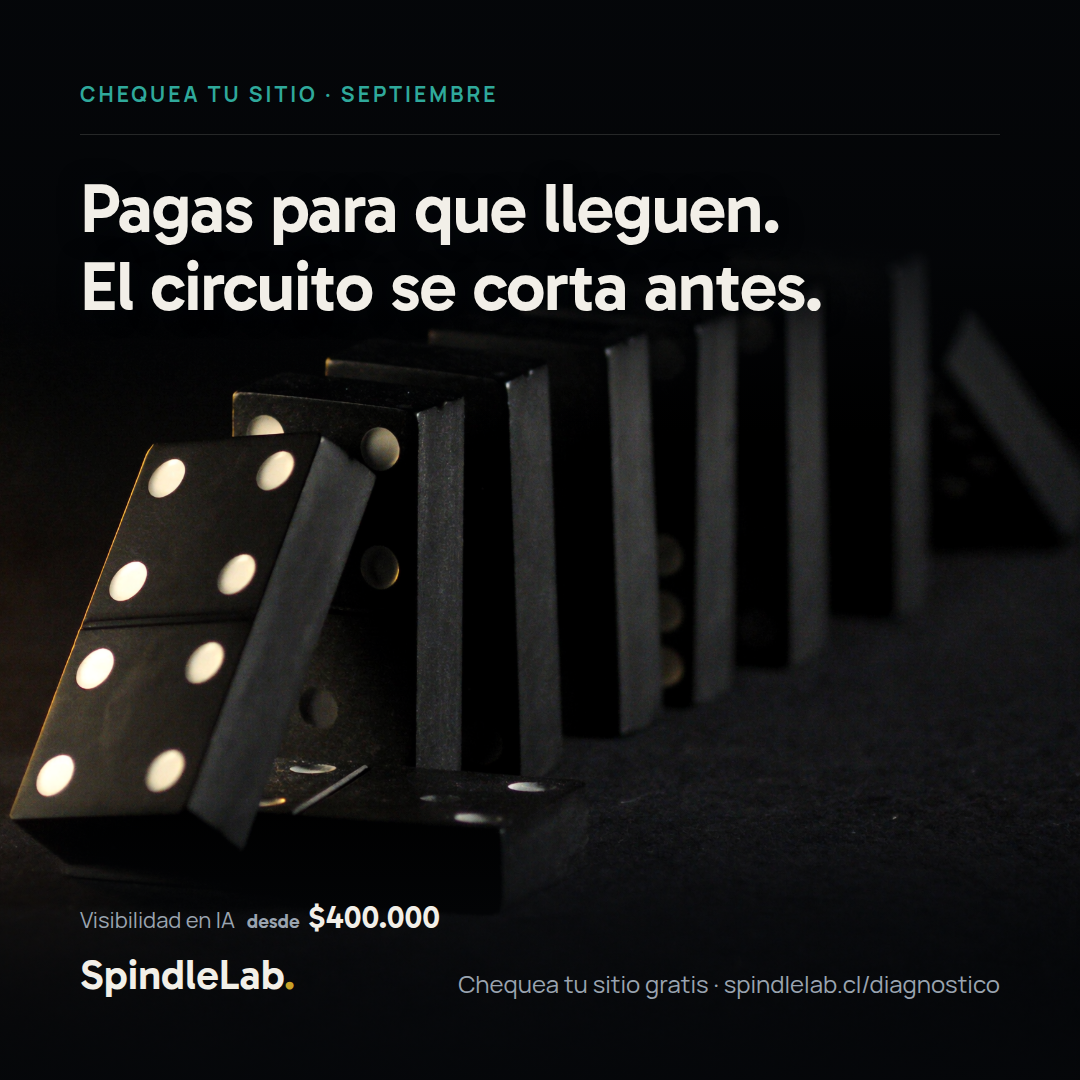
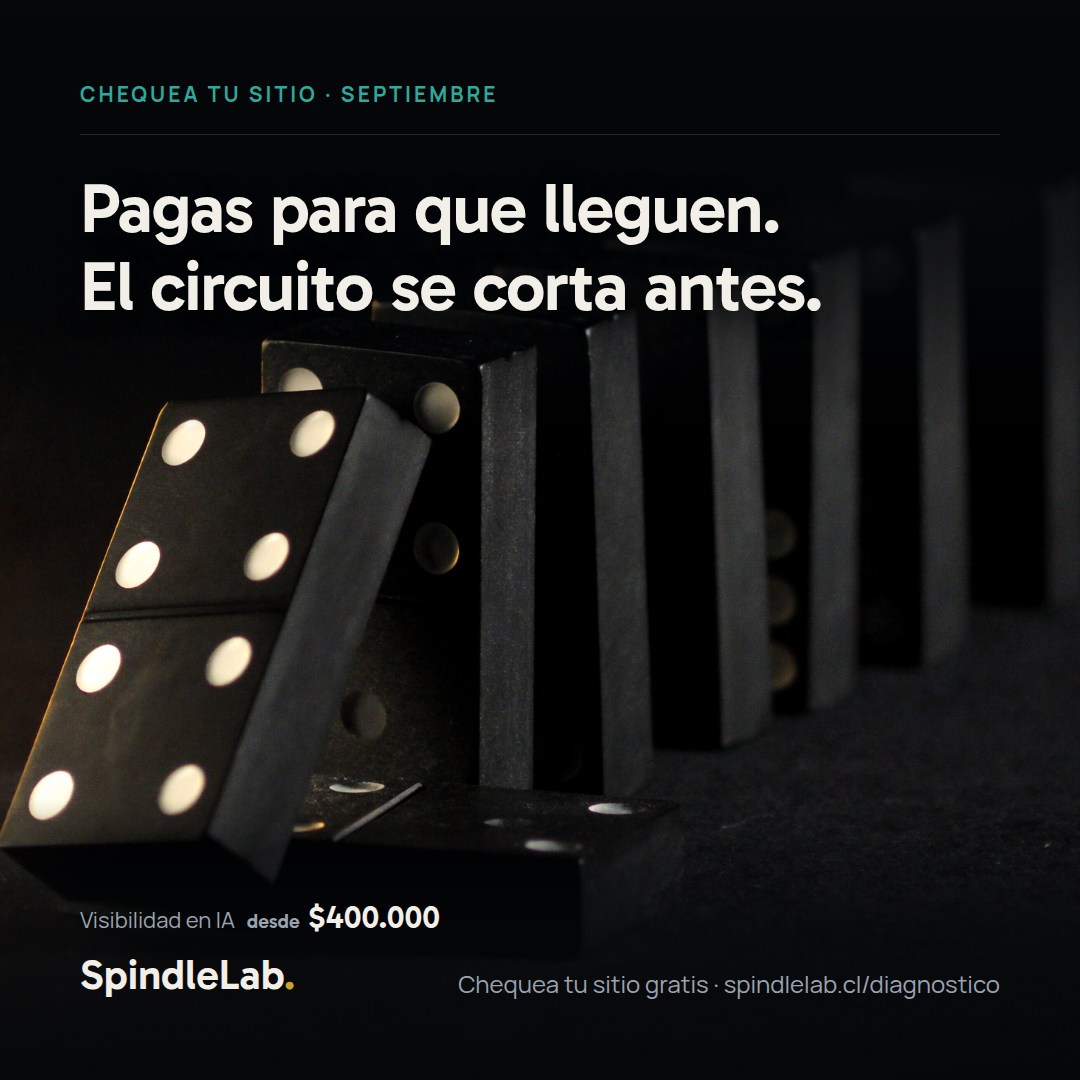
Jue 3: reencuadre del domino para sacar la ficha que contradecia la inercia
Ramon cazo que la ficha del fondo derecho caia en direccion contraria a la corrida:
un contrapunto que ensuciaba la lectura. Era defecto de encuadre, no de imagen -- se
resolvio moviendo el cuadro (30% 62%/140%), cero creditos. De paso el encuadre nuevo
tiene mas aire y la fila en pie se pierde en la penumbra, que refuerza el argumento.

Claude-Session: https://claude.ai/code/session_01WYNH8WPLpujcpumHdUd1oU

diff --git a/marketing/redes/2026-09-septiembre/_reserva/sprint-concepto-02sep/kv-F-domino.html b/marketing/redes/2026-09-septiembre/_reserva/sprint-concepto-02sep/kv-F-domino.html
@@ -1,9 +1,12 @@
 <!DOCTYPE html><html><head><meta charset="utf-8"><link rel="stylesheet" href="base.css">
 <style>
 /* JUE 3-sep · concepto "el eje y el circuito" contado con DOMINO (idea de Ramon).
-   La foto se ve NITIDA: el velo solo cae donde hay texto, no sobre las fichas. */
+   La foto se ve NITIDA: el velo solo cae donde hay texto, no sobre las fichas.
+   ENCUADRE (2-sep, nota de Ramon): reencuadrado a 30% 62%/140% para dejar FUERA la
+   ficha del fondo derecho, que caia en direccion contraria y contradecia la inercia
+   de la corrida. Era defecto de encuadre, no de imagen: se arregla moviendo el cuadro. */
 .post.dm { padding:0; background:#05070a; }
-.foto { position:absolute; inset:0; background:url('fondo-domino.png') center 62%/118% no-repeat, #05070a; }
+.foto { position:absolute; inset:0; background:url('fondo-domino.png') 30% 62%/140% no-repeat, #05070a; }
 .velo { position:absolute; inset:0; background:
   linear-gradient(180deg, rgba(5,7,10,0.90) 0%, rgba(5,7,10,0.72) 24%, rgba(5,7,10,0) 40%),
   linear-gradient(0deg, rgba(5,7,10,0.94) 0%, rgba(5,7,10,0.66) 14%, rgba(5,7,10,0) 26%); }

diff --git a/marketing/oficina/memoria/bruno-direccion-creativa.md b/marketing/oficina/memoria/bruno-direccion-creativa.md
@@ -46,6 +46,11 @@ Defino el "cómo se ve"; el "qué decir" es de Renata/Cata.
 - **Un relato visual mal armado se anula solo.** La v1 del circuito dejaba encendido el
   tramo posterior al corte: si igual pasa energía, el corte no significa nada. **Revisar
   que la pieza no se contradiga a sí misma, no solo que se vea bien.** (2-sep)
+- **Una foto generada trae elementos que contradicen el relato; se arreglan con el
+  ENCUADRE, no regenerando.** En el dominó, una ficha del fondo caía en dirección
+  contraria y ensuciaba la inercia de la corrida. Reencuadrar costó cero créditos y
+  segundos. **Antes de gastar en regenerar, preguntarse si sobra algo que se puede
+  sacar del cuadro.** Lo cazó Ramón, no yo: yo miré el PNG y no lo vi. (2-sep)
 - **La idea del cliente puede ganarle a la mía, y hay que decirlo.** Yo llevaba una elipse
   tipo constelación; Ramón dijo "dominó" y era mejor: un diagrama se lee, una consecuencia
   se siente. (2-sep)
